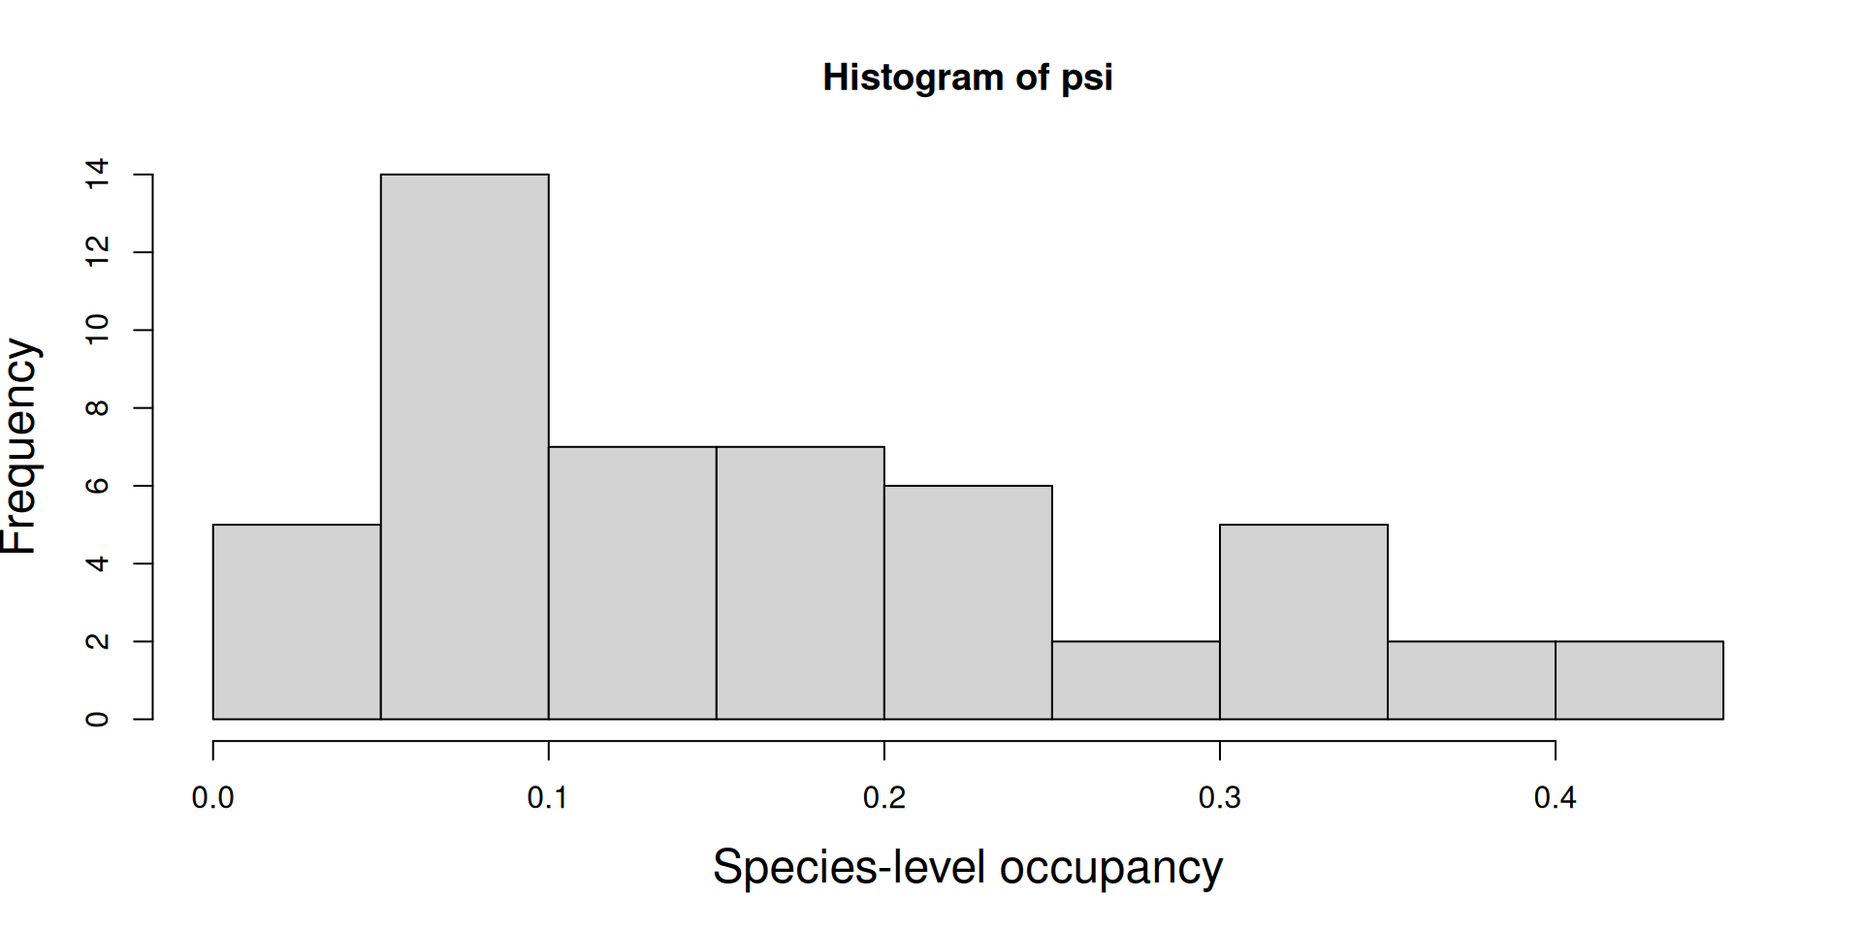
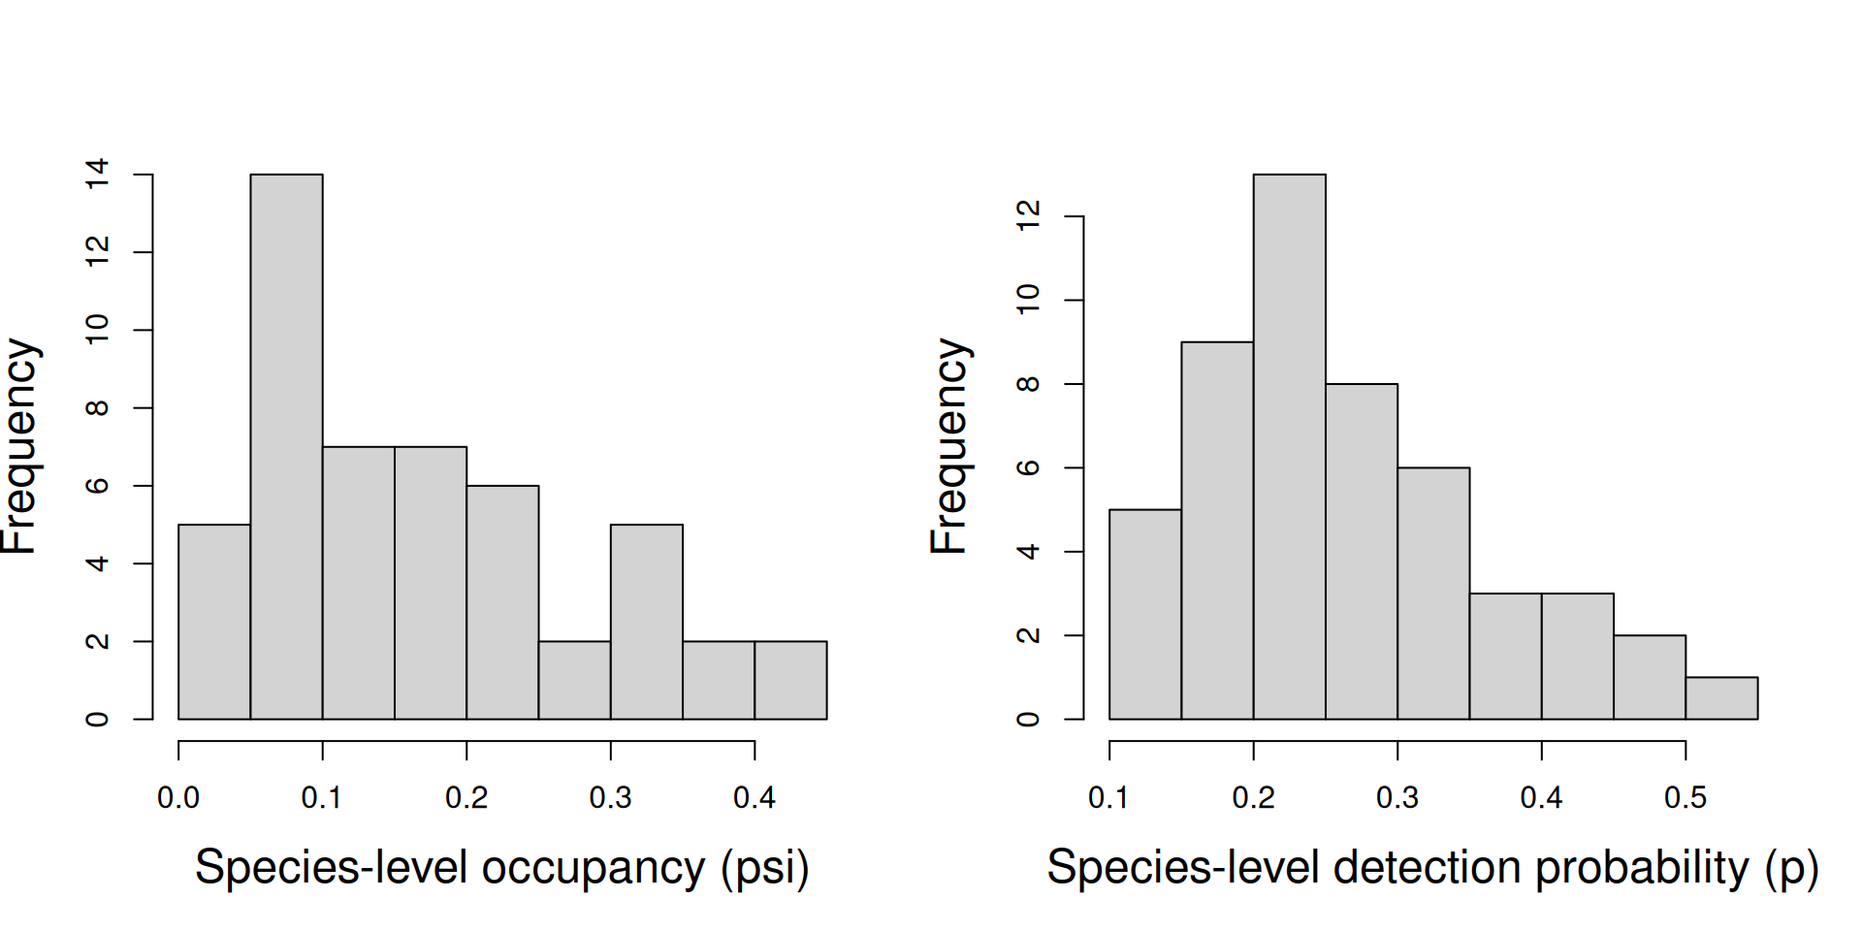
community occupancy

diff --git a/docs/lectures/multi-species-occupancy/lecture-multi-spp-occu.html b/docs/lectures/multi-species-occupancy/lecture-multi-spp-occu.html
@@ -95,6 +95,7 @@
     code span.wa { color: #5e5e5e; font-style: italic; } /* Warning */
   </style>
   <link rel="stylesheet" href="../../site_libs/revealjs/dist/theme/quarto-534cd8e3a96973385dffff3f4709048d.css">
+  <link rel="stylesheet" href="../../custom.css">
   <link href="../../site_libs/revealjs/plugin/quarto-line-highlight/line-highlight.css" rel="stylesheet">
   <link href="../../site_libs/revealjs/plugin/reveal-menu/menu.css" rel="stylesheet">
   <link href="../../site_libs/revealjs/plugin/reveal-menu/quarto-menu.css" rel="stylesheet">
@@ -217,8 +218,8 @@
 <h2>Community occupancy model</h2>
 <p>Species may go undetected for a couple reason:</p>
 <ol type="1">
-<li class="fragment">They are rare and are not present in our sample</li>
-<li class="fragment">They are present in our sample but are cryptic</li>
+<li class="fragment">They are rare and are not present in our sample.</li>
+<li class="fragment">They are present in our sample but are cryptic.</li>
 </ol>
 <p><br></p>
 <div class="fragment">
@@ -231,19 +232,19 @@
 <section id="community-occupancy-model-1" class="slide level2">
 <h2>Community occupancy model</h2>
 <div style="font-size: 75%;">
-<p>Occupancy of species <span class="math inline">\(i\)</span> present at site <span class="math inline">\(j\)</span>?</p>
+<p>Occupancy of species <span class="math inline">\(i\)</span> present at site <span class="math inline">\(j\)</span>:</p>
 <p><span class="math display">\[
   z_{ij} \sim \mathrm{Bern}(\psi_i)
 \]</span></p>
 <div class="fragment">
-<p>Detection data for species <span class="math inline">\(i\)</span> at site <span class="math inline">\(j\)</span> on occasion <span class="math inline">\(k\)</span>?</p>
+<p>Detection data for species <span class="math inline">\(i\)</span> at site <span class="math inline">\(j\)</span> on occasion <span class="math inline">\(k\)</span>:</p>
 <p><span class="math display">\[
   y_{ijk} \sim \mathrm{Bern}(z_{ij} \times p_i)
 \]</span></p>
 </div>
 <p><br></p>
 <div class="fragment">
-<p>Species-specific effects can be modeled as functions of covariates and/or regarded as random. Here’s an example without covariates:</p>
+<p>Species-specific parameters can be modeled as functions of covariates and/or regarded as random effects. Here’s an example without covariates:</p>
 <p><span class="math display">\[
   \mathrm{logit}(\psi_j) \sim \mathrm{Norm}(\mu_{\psi}, \sigma^2_{\psi})
 \]</span></p>
@@ -313,11 +314,9 @@
 <section id="simulation-without-covariates-1" class="slide level2">
 <h2>Simulation without covariates</h2>
 <div style="font-size: 70%;">
-<div class="cell columns column-output-location">
-<div class="column">
-<div class="code-copy-outer-scaffold"><div class="sourceCode cell-code" id="cb2"><pre class="sourceCode numberSource r number-lines code-with-copy"><code class="sourceCode r"><span id="cb2-1"><a></a><span class="fu">hist</span>(psi, <span class="at">xlab=</span><span class="st">"Species-level occupancy"</span>,</span>
-<span id="cb2-2"><a></a>     <span class="at">cex.lab=</span><span class="fl">1.5</span>)</span></code></pre></div><button title="Copy to Clipboard" class="code-copy-button"><i class="bi"></i></button></div>
-</div><div class="column">
+<div class="cell">
+<div class="code-copy-outer-scaffold"><div class="sourceCode cell-code" id="cb2"><pre class="sourceCode numberSource r number-lines code-with-copy"><code class="sourceCode r"><span id="cb2-1"><a></a><span class="fu">hist</span>(psi, <span class="at">xlab=</span><span class="st">"Species-level occupancy (psi)"</span>, <span class="at">cex.lab=</span><span class="fl">1.5</span>, <span class="at">main=</span><span class="st">""</span>)</span>
+<span id="cb2-2"><a></a><span class="fu">hist</span>(p, <span class="at">xlab=</span><span class="st">"Species-level detection probability (p)"</span>, <span class="at">cex.lab=</span><span class="fl">1.5</span>, <span class="at">main=</span><span class="st">""</span>)</span></code></pre></div><button title="Copy to Clipboard" class="code-copy-button"><i class="bi"></i></button></div>
 <div class="cell-output-display">
 <div>
 <figure>
@@ -325,34 +324,26 @@
 </figure>
 </div>
 </div>
-</div></div>
-<div class="cell columns column-output-location">
-<div class="column">
-<div class="code-copy-outer-scaffold"><div class="sourceCode cell-code" id="cb3"><pre class="sourceCode numberSource r number-lines code-with-copy"><code class="sourceCode r"><span id="cb3-1"><a></a><span class="fu">hist</span>(p, <span class="at">xlab=</span><span class="st">"Species-level detection probability"</span>,</span>
-<span id="cb3-2"><a></a>     <span class="at">cex.lab=</span><span class="fl">1.5</span>)</span></code></pre></div><button title="Copy to Clipboard" class="code-copy-button"><i class="bi"></i></button></div>
-</div><div class="column">
-<div class="cell-output-display">
-<div>
-<figure>
-<p><img data-src="lecture-multi-spp-occu_files/figure-revealjs/p-re-1.png" width="960"></p>
-</figure>
 </div>
-</div>
-</div></div>
 </div>
 </section>
 <section id="simulation-without-covariates-2" class="slide level2">
 <h2>Simulation without covariates</h2>
-<p>Notice that some species were not detected, and thus can’t be part of the dataset.</p>
+<div style="font-size: 80%;">
+<p>Some species were not detected, and thus can’t be part of the dataset.</p>
 <div class="cell">
-<div class="code-copy-outer-scaffold"><div class="sourceCode cell-code" id="cb4"><pre class="sourceCode numberSource r number-lines code-with-copy"><code class="sourceCode r"><span id="cb4-1"><a></a>detected <span class="ot">&lt;-</span> <span class="fu">rowSums</span>(yall)<span class="sc">&gt;</span><span class="dv">0</span></span>
-<span id="cb4-2"><a></a><span class="fu">table</span>(detected)</span></code></pre></div><button title="Copy to Clipboard" class="code-copy-button"><i class="bi"></i></button></div>
+<div class="code-copy-outer-scaffold"><div class="sourceCode cell-code" id="cb3"><pre class="sourceCode numberSource r number-lines code-with-copy"><code class="sourceCode r"><span id="cb3-1"><a></a>detected <span class="ot">&lt;-</span> <span class="fu">rowSums</span>(yall)<span class="sc">&gt;</span><span class="dv">0</span></span>
+<span id="cb3-2"><a></a><span class="fu">table</span>(detected)</span></code></pre></div><button title="Copy to Clipboard" class="code-copy-button"><i class="bi"></i></button></div>
 <div class="cell-output cell-output-stdout">
 <pre><code>detected
 FALSE  TRUE 
     5    45 </code></pre>
 </div>
-<div class="code-copy-outer-scaffold"><div class="sourceCode cell-code" id="cb6"><pre class="sourceCode numberSource r number-lines code-with-copy"><code class="sourceCode r"><span id="cb6-1"><a></a>y <span class="ot">&lt;-</span> yall[detected,,] <span class="co"># Discard species that weren't detected</span></span></code></pre></div><button title="Copy to Clipboard" class="code-copy-button"><i class="bi"></i></button></div>
+</div>
+<p>We discard them like so:</p>
+<div class="cell">
+<div class="code-copy-outer-scaffold"><div class="sourceCode cell-code" id="cb5"><pre class="sourceCode numberSource r number-lines code-with-copy"><code class="sourceCode r"><span id="cb5-1"><a></a>y <span class="ot">&lt;-</span> yall[detected,,] <span class="co"># Discard species that weren't detected</span></span></code></pre></div><button title="Copy to Clipboard" class="code-copy-button"><i class="bi"></i></button></div>
+</div>
 </div>
 </section>
 <section id="jags-model-pretending-we-know-all-the-species" class="slide level2">
@@ -387,30 +378,44 @@ for(i in 1:n_species) {
 </section>
 <section id="jags-model-pretending-we-know-all-the-species-1" class="slide level2">
 <h2>JAGS model pretending we know all the species</h2>
-<div class="cell">
-<div class="code-copy-outer-scaffold"><div class="sourceCode cell-code" id="cb8"><pre class="sourceCode numberSource r number-lines code-with-copy"><code class="sourceCode r"><span id="cb8-1"><a></a><span class="fu">library</span>(jagsUI)</span>
-<span id="cb8-2"><a></a>jd_fixedN <span class="ot">&lt;-</span> <span class="fu">list</span>(<span class="at">y=</span>y, <span class="at">n_species=</span><span class="fu">nrow</span>(y), <span class="at">n_sites=</span><span class="fu">ncol</span>(y), <span class="at">n_occasions=</span><span class="fu">dim</span>(y)[<span class="dv">3</span>])</span>
-<span id="cb8-3"><a></a>jp_fixedN <span class="ot">&lt;-</span> <span class="fu">c</span>(<span class="st">"mu_logit_psi"</span>, <span class="st">"sd_logit_psi"</span>, <span class="st">"mu_logit_p"</span>, <span class="st">"sd_logit_p"</span>)</span>
-<span id="cb8-4"><a></a>ji_fixedN <span class="ot">&lt;-</span> <span class="cf">function</span>() <span class="fu">list</span>(<span class="at">mu_logit_psi=</span><span class="fu">rnorm</span>(<span class="dv">1</span>), <span class="at">sd_logit_psi=</span><span class="fu">rexp</span>(<span class="dv">1</span>),</span>
-<span id="cb8-5"><a></a>                             <span class="at">mu_logit_p=</span><span class="fu">rnorm</span>(<span class="dv">1</span>), <span class="at">sd_logit_p=</span><span class="fu">rexp</span>(<span class="dv">1</span>),</span>
-<span id="cb8-6"><a></a>                             <span class="at">z=</span><span class="fu">matrix</span>(<span class="dv">1</span>, <span class="at">nrow=</span><span class="fu">nrow</span>(y), <span class="at">ncol=</span><span class="fu">ncol</span>(y)))</span>
-<span id="cb8-7"><a></a></span>
-<span id="cb8-8"><a></a>post_fixedN <span class="ot">&lt;-</span> <span class="fu">jags.basic</span>(<span class="at">data=</span>jd_fixedN, <span class="at">inits=</span>ji_fixedN, <span class="at">parameters.to.save=</span>jp_fixedN,</span>
-<span id="cb8-9"><a></a>                          <span class="at">model.file=</span><span class="st">"comm-occ-knownN.jag"</span>, <span class="at">n.chains=</span><span class="dv">1</span>, <span class="at">n.iter=</span><span class="dv">2000</span>)</span>
-<span id="cb8-10"><a></a></span>
-<span id="cb8-11"><a></a><span class="fu">plot</span>(post_fixedN)</span></code></pre></div><button title="Copy to Clipboard" class="code-copy-button"><i class="bi"></i></button></div>
+<div style="font-size: 80%;">
+<div class="cell" data-layout-align="center">
+<div class="code-copy-outer-scaffold"><div class="sourceCode cell-code" id="cb7"><pre class="sourceCode numberSource r number-lines code-with-copy"><code class="sourceCode r"><span id="cb7-1"><a></a><span class="fu">library</span>(jagsUI)</span>
+<span id="cb7-2"><a></a>jd_fixedN <span class="ot">&lt;-</span> <span class="fu">list</span>(<span class="at">y=</span>y, <span class="at">n_species=</span><span class="fu">nrow</span>(y), <span class="at">n_sites=</span><span class="fu">ncol</span>(y), <span class="at">n_occasions=</span><span class="fu">dim</span>(y)[<span class="dv">3</span>])</span>
+<span id="cb7-3"><a></a>jp_fixedN <span class="ot">&lt;-</span> <span class="fu">c</span>(<span class="st">"mu_logit_psi"</span>, <span class="st">"sd_logit_psi"</span>, <span class="st">"mu_logit_p"</span>, <span class="st">"sd_logit_p"</span>)</span>
+<span id="cb7-4"><a></a>ji_fixedN <span class="ot">&lt;-</span> <span class="cf">function</span>() <span class="fu">list</span>(<span class="at">mu_logit_psi=</span><span class="fu">rnorm</span>(<span class="dv">1</span>), <span class="at">sd_logit_psi=</span><span class="fu">rexp</span>(<span class="dv">1</span>),</span>
+<span id="cb7-5"><a></a>                             <span class="at">mu_logit_p=</span><span class="fu">rnorm</span>(<span class="dv">1</span>), <span class="at">sd_logit_p=</span><span class="fu">rexp</span>(<span class="dv">1</span>),</span>
+<span id="cb7-6"><a></a>                             <span class="at">z=</span><span class="fu">matrix</span>(<span class="dv">1</span>, <span class="at">nrow=</span><span class="fu">nrow</span>(y), <span class="at">ncol=</span><span class="fu">ncol</span>(y)))</span>
+<span id="cb7-7"><a></a></span>
+<span id="cb7-8"><a></a>post_fixedN <span class="ot">&lt;-</span> <span class="fu">jags.basic</span>(<span class="at">data=</span>jd_fixedN, <span class="at">inits=</span>ji_fixedN, <span class="at">parameters.to.save=</span>jp_fixedN,</span>
+<span id="cb7-9"><a></a>                          <span class="at">model.file=</span><span class="st">"comm-occ-knownN.jag"</span>, <span class="at">n.chains=</span><span class="dv">1</span>, <span class="at">n.iter=</span><span class="dv">2000</span>)</span>
+<span id="cb7-10"><a></a></span>
+<span id="cb7-11"><a></a><span class="fu">plot</span>(post_fixedN)</span></code></pre></div><button title="Copy to Clipboard" class="code-copy-button"><i class="bi"></i></button></div>
 </div>
 
+</div>
 </section>
-<section id="jags-model-pretending-we-know-all-the-species-1-output" class="slide level2 output-location-slide"><h2>JAGS model pretending we know all the species</h2><div class="cell output-location-slide">
+<section id="jags-model-pretending-we-know-all-the-species-1-output" class="slide level2 output-location-slide"><h2>JAGS model pretending we know all the species</h2><div class="cell output-location-slide" data-layout-align="center">
 <div class="cell-output-display">
-<div>
+<div class="quarto-figure quarto-figure-center">
 <figure>
-<p><img data-src="lecture-multi-spp-occu_files/figure-revealjs/jags-fit-knownN-1.png" width="960"></p>
+<p><img data-src="lecture-multi-spp-occu_files/figure-revealjs/jags-fit-knownN-1.png" class="quarto-figure quarto-figure-center" style="width:50.0%"></p>
 </figure>
 </div>
 </div>
-</div></section><section id="jags-model-estimating-richness" class="slide level2">
+</div></section><section id="expanding-the-model-to-estimate-richness" class="slide level2">
+<h2>Expanding the model to estimate richness</h2>
+<p><br> We can use data augmentation to infer how many species were missed, and thus estimate the size of the entire community.</p>
+<div class="fragment">
+<p><br></p>
+<p>Here’s the expanded part of the model:</p>
+<p><span class="math display">\[
+w_i \sim \mathrm{Bern}(\Omega) \\
+z_{ij} \sim \mathrm{Bern}(w_i \times \psi_{i})
+\]</span></p>
+</div>
+</section>
+<section id="jags-model-estimating-richness" class="slide level2">
 <h2>JAGS model estimating richness</h2>
 <div class="cell">
 <div class="cell-output cell-output-stdout">
@@ -431,9 +436,9 @@ for(i in 1:M) {
   psi[i] &lt;- ilogit(logit_psi[i])
   p[i] &lt;- ilogit(logit_p[i])
   for(j in 1:n_sites) {
-    z[i,j] ~ dbern(psi[i])
+    z[i,j] ~ dbern(w[i]*psi[i])
     for(k in 1:n_occasions) {
-      y[i,j,k] ~ dbern(w[i]*z[i,j]*p[i])
+      y[i,j,k] ~ dbern(z[i,j]*p[i])
     }
   }
 }
@@ -447,38 +452,42 @@ N &lt;- sum(w) # Species richness
 </section>
 <section id="jags-model-estimating-richness-1" class="slide level2">
 <h2>JAGS model estimating richness</h2>
-<div class="cell">
-<div class="code-copy-outer-scaffold"><div class="sourceCode cell-code" id="cb10"><pre class="sourceCode numberSource r number-lines code-with-copy"><code class="sourceCode r"><span id="cb10-1"><a></a>M <span class="ot">&lt;-</span> <span class="dv">100</span></span>
-<span id="cb10-2"><a></a>y_aug <span class="ot">&lt;-</span> <span class="fu">array</span>(<span class="dv">0</span>, <span class="fu">c</span>(M,J,K))</span>
-<span id="cb10-3"><a></a>y_aug[<span class="dv">1</span><span class="sc">:</span><span class="fu">nrow</span>(y),,] <span class="ot">&lt;-</span> y</span>
-<span id="cb10-4"><a></a></span>
-<span id="cb10-5"><a></a>jd_unknownN <span class="ot">&lt;-</span> <span class="fu">list</span>(<span class="at">y=</span>y_aug, <span class="at">M=</span>M, <span class="at">n_sites=</span><span class="fu">ncol</span>(y), <span class="at">n_occasions=</span><span class="fu">dim</span>(y)[<span class="dv">3</span>])</span>
-<span id="cb10-6"><a></a>jp_unknownN <span class="ot">&lt;-</span> <span class="fu">c</span>(<span class="st">"mu_logit_psi"</span>, <span class="st">"sd_logit_psi"</span>, <span class="st">"mu_logit_p"</span>, <span class="st">"sd_logit_p"</span>, <span class="st">"N"</span>)</span>
-<span id="cb10-7"><a></a>ji_unknownN <span class="ot">&lt;-</span> <span class="cf">function</span>() <span class="fu">list</span>(<span class="at">mu_logit_psi=</span><span class="fu">rnorm</span>(<span class="dv">1</span>), <span class="at">sd_logit_psi=</span><span class="fl">0.1</span>,</span>
-<span id="cb10-8"><a></a>                               <span class="at">mu_logit_p=</span><span class="fu">rnorm</span>(<span class="dv">1</span>), <span class="at">sd_logit_p=</span><span class="fl">0.1</span>,</span>
-<span id="cb10-9"><a></a>                               <span class="at">w=</span><span class="fu">rep</span>(<span class="dv">1</span>, M), <span class="at">z=</span><span class="fu">matrix</span>(<span class="dv">1</span>, <span class="at">nrow=</span>M, <span class="at">ncol=</span><span class="fu">ncol</span>(y)))</span>
-<span id="cb10-10"><a></a></span>
-<span id="cb10-11"><a></a>post_unknownN <span class="ot">&lt;-</span> <span class="fu">jags.basic</span>(<span class="at">data=</span>jd_unknownN, <span class="at">inits=</span>ji_unknownN,</span>
-<span id="cb10-12"><a></a>                            <span class="at">parameters.to.save=</span>jp_unknownN,</span>
-<span id="cb10-13"><a></a>                            <span class="at">model.file=</span><span class="st">"comm-occ-unknownN.jag"</span>, <span class="at">n.chains=</span><span class="dv">1</span>, <span class="at">n.iter=</span><span class="dv">5000</span>)</span>
-<span id="cb10-14"><a></a></span>
-<span id="cb10-15"><a></a><span class="fu">plot</span>(post_unknownN)</span></code></pre></div><button title="Copy to Clipboard" class="code-copy-button"><i class="bi"></i></button></div>
+<div style="font-size: 80%;">
+<div class="cell" data-layout-align="center">
+<div class="code-copy-outer-scaffold"><div class="sourceCode cell-code" id="cb9"><pre class="sourceCode numberSource r number-lines code-with-copy"><code class="sourceCode r"><span id="cb9-1"><a></a>M <span class="ot">&lt;-</span> <span class="dv">100</span>                       <span class="co"># Augment to M=100 possible species</span></span>
+<span id="cb9-2"><a></a>y_aug <span class="ot">&lt;-</span> <span class="fu">array</span>(<span class="dv">0</span>, <span class="fu">c</span>(M,J,K))</span>
+<span id="cb9-3"><a></a>y_aug[<span class="dv">1</span><span class="sc">:</span><span class="fu">nrow</span>(y),,] <span class="ot">&lt;-</span> y        <span class="co"># Insert observed data</span></span>
+<span id="cb9-4"><a></a></span>
+<span id="cb9-5"><a></a>jd_unknownN <span class="ot">&lt;-</span> <span class="fu">list</span>(<span class="at">y=</span>y_aug, <span class="at">M=</span>M, <span class="at">n_sites=</span><span class="fu">ncol</span>(y), <span class="at">n_occasions=</span><span class="fu">dim</span>(y)[<span class="dv">3</span>])</span>
+<span id="cb9-6"><a></a>jp_unknownN <span class="ot">&lt;-</span> <span class="fu">c</span>(<span class="st">"mu_logit_psi"</span>, <span class="st">"sd_logit_psi"</span>, <span class="st">"mu_logit_p"</span>, <span class="st">"sd_logit_p"</span>, <span class="st">"N"</span>)</span>
+<span id="cb9-7"><a></a>ji_unknownN <span class="ot">&lt;-</span> <span class="cf">function</span>() <span class="fu">list</span>(<span class="at">mu_logit_psi=</span><span class="fu">rnorm</span>(<span class="dv">1</span>), <span class="at">sd_logit_psi=</span><span class="fl">0.1</span>,</span>
+<span id="cb9-8"><a></a>                               <span class="at">mu_logit_p=</span><span class="fu">rnorm</span>(<span class="dv">1</span>), <span class="at">sd_logit_p=</span><span class="fl">0.1</span>,</span>
+<span id="cb9-9"><a></a>                               <span class="at">w=</span><span class="fu">rep</span>(<span class="dv">1</span>, M), <span class="at">z=</span><span class="fu">matrix</span>(<span class="dv">1</span>, <span class="at">nrow=</span>M, <span class="at">ncol=</span><span class="fu">ncol</span>(y)))</span>
+<span id="cb9-10"><a></a></span>
+<span id="cb9-11"><a></a>post_unknownN <span class="ot">&lt;-</span> <span class="fu">jags.basic</span>(<span class="at">data=</span>jd_unknownN, <span class="at">inits=</span>ji_unknownN,</span>
+<span id="cb9-12"><a></a>                            <span class="at">parameters.to.save=</span>jp_unknownN,</span>
+<span id="cb9-13"><a></a>                            <span class="at">model.file=</span><span class="st">"comm-occ-unknownN.jag"</span>, <span class="at">n.chains=</span><span class="dv">1</span>, <span class="at">n.iter=</span><span class="dv">5000</span>)</span>
+<span id="cb9-14"><a></a></span>
+<span id="cb9-15"><a></a><span class="fu">par</span>(<span class="at">mfrow=</span><span class="fu">c</span>(<span class="dv">1</span>,<span class="dv">2</span>))</span>
+<span id="cb9-16"><a></a><span class="fu">plot</span>(post_unknownN[,<span class="dv">1</span><span class="sc">:</span><span class="dv">3</span>])</span></code></pre></div><button title="Copy to Clipboard" class="code-copy-button"><i class="bi"></i></button></div>
+</div>
+
 </div>
 
 
-
-</section><section id="jags-model-estimating-richness-1-output" class="slide level2 output-location-slide"><h2>JAGS model estimating richness</h2><div class="cell output-location-slide">
+</section><section id="jags-model-estimating-richness-1-output" class="slide level2 output-location-slide"><h2>JAGS model estimating richness</h2><div class="cell output-location-slide" data-layout-align="center">
 <div class="cell-output-display">
-<div>
+<div class="quarto-figure quarto-figure-center">
 <figure>
-<p><img data-src="lecture-multi-spp-occu_files/figure-revealjs/jags-fit-unknownN-1.png" width="960"></p>
+<p><img data-src="lecture-multi-spp-occu_files/figure-revealjs/jags-fit-unknownN-1.png" class="quarto-figure quarto-figure-center" style="width:40.0%"></p>
 </figure>
 </div>
 </div>
+<div class="code-copy-outer-scaffold"><div class="sourceCode cell-code" id="cb10"><pre class="sourceCode numberSource r number-lines code-with-copy"><code class="sourceCode r"><span id="cb10-1"><a></a><span class="fu">plot</span>(post_unknownN[,<span class="dv">4</span><span class="sc">:</span><span class="dv">5</span>])</span></code></pre></div><button title="Copy to Clipboard" class="code-copy-button"><i class="bi"></i></button></div>
 <div class="cell-output-display">
-<div>
+<div class="quarto-figure quarto-figure-center">
 <figure>
-<p><img data-src="lecture-multi-spp-occu_files/figure-revealjs/jags-fit-unknownN-2.png" width="960"></p>
+<p><img data-src="lecture-multi-spp-occu_files/figure-revealjs/jags-fit-unknownN-2.png" class="quarto-figure quarto-figure-center" style="width:40.0%"></p>
 </figure>
 </div>
 </div>

diff --git a/docs/index.html b/docs/index.html
@@ -263,6 +263,12 @@ ul.task-list li input[type="checkbox"] {
 <li><p><a href="./lectures/JS/lecture-Jolly-Seber.html">Lecture 15 - JS models</a></p></li>
 <li><p><a href="./lectures/movement/lecture-movement.html">Lecture 16 - Movement models</a></p></li>
 </ul>
+</section>
+<section id="week-14---multi-species-occupancy-models" class="level4">
+<h4 class="anchored" data-anchor-id="week-14---multi-species-occupancy-models">Week 14 - Multi-species occupancy models</h4>
+<ul>
+<li><a href="./lectures/multi-species-occupancy/lecture-multi-spp-occu.html">Lecture 17 - Multi-species occupancy</a></li>
+</ul>
 
 
 </section>
